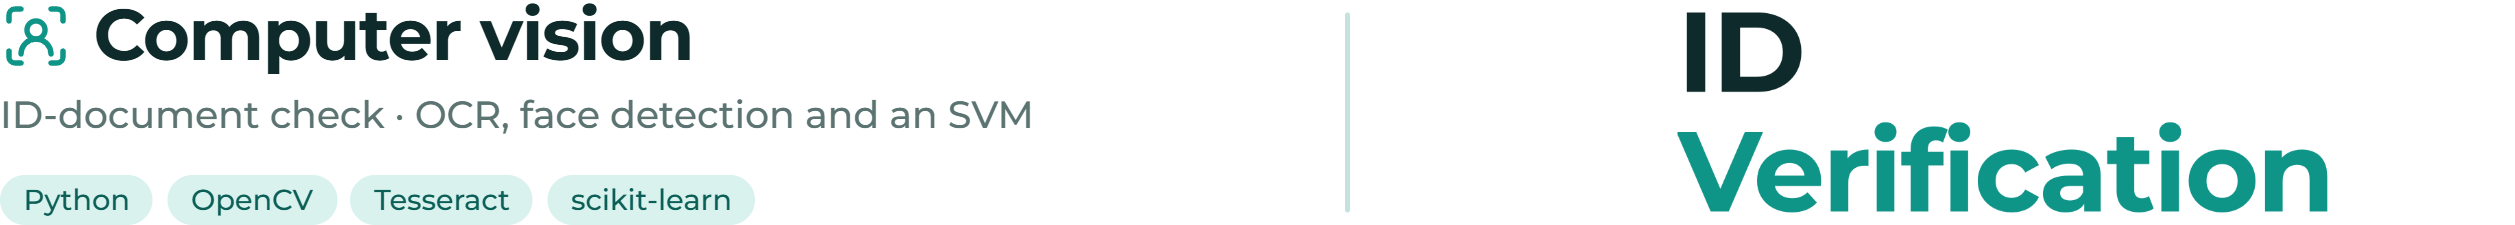
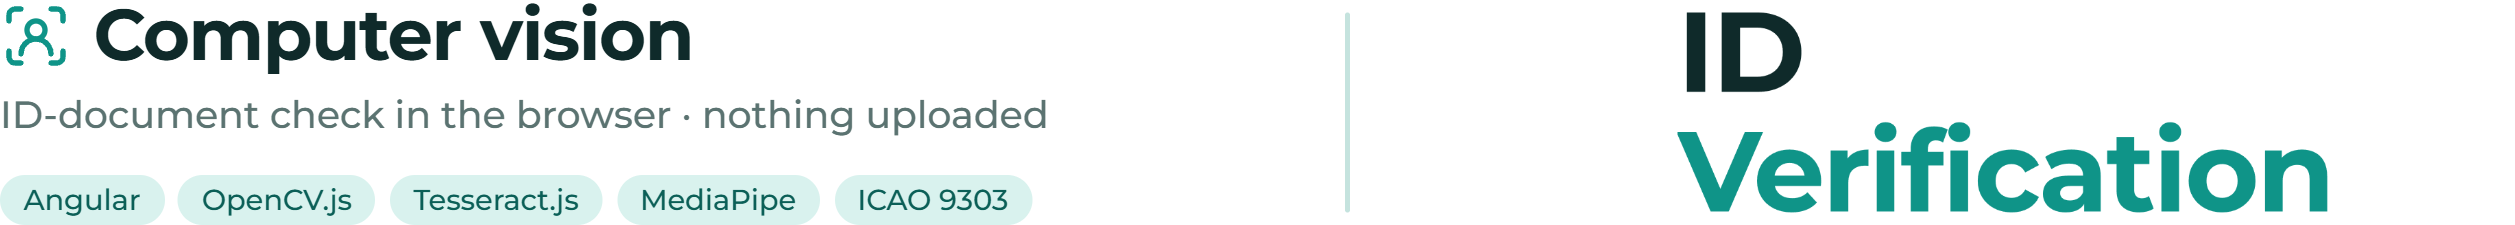
docs: describe the web demo in the README and regenerate its images

Changed region(s): [[0.0, 0.7778, 0.4342, 1.0], [0.1551, 0.4356, 0.4342, 0.5911]]

diff --git a/README.md b/README.md
@@ -1,121 +1,178 @@
 <p align="center">
   <picture>
     <source media="(prefers-color-scheme: dark)" srcset="docs/images/banner-dark.png">
-    <img src="docs/images/banner-light.png" alt="id-verification: ID-document check with OpenCV and OCR" width="100%">
+    <img src="docs/images/banner-light.png" alt="id-verification: an ID-document check that runs in the browser, nothing uploaded" width="100%">
   </picture>
 </p>
 
 <p align="center">
-  <img src="docs/images/showcase.jpg" alt="The idea of the pipeline: a document photo, edge and text detection, OCR, a green verification mark" width="100%">
+  <img src="docs/images/showcase.jpg" alt="The web demo on the angled specimen photo: the eight processing steps, the straightened card and the result card, on a desktop and a phone" width="100%">
 </p>
 
 ## About
 
-**id-verification** is a small set of Python scripts for a basic identity-document check with OpenCV and OCR, plus
-the image-processing exercises that led to it. It was split off from the former `Id-Verification-And-Neural-Network`
-workspace; the PyTorch part lives in `next-word-prediction`.
+<a href="https://damtchorzewski.github.io/id-verification/"><img src="docs/images/open-site.png" alt="Open the live demo" width="130"></a>
 
-- **ID check (`verifyID.py`).** Pre-processes a photo of a document (grayscale, binary threshold, morphological
-  opening), reads the text with Tesseract OCR and checks that the declared country of origin appears in it. It
-  prints `ID OK` or `Invalid ID`. The sample is the official specimen of a Polish identity card (it says
-  *WZORZEC*), not a real person's document.
-- **Image operations (`imageTransform.py`).** Load, grayscale, crop, rotate and save an image, Canny edge detection
-  and Haar-cascade face detection; the faces are cut out to `face_<n>.jpg`.
-- **SVM classifier (`svmModel.py`).** Trains an `SVC` on the GTSRB traffic-sign data set (43 classes, 32 × 32
-  histogram-equalised crops) and plots precision, recall and F1 per class. It is a separate experiment: it has nothing
-  to do with documents.
+**id-verification** shows what a computer can read from a photo of an identity document, step by step, **without
+sending the photo anywhere**. The web demo (Angular) runs OpenCV, Tesseract OCR and MediaPipe face detection as
+WebAssembly in the browser; there is no server, no analytics and no cookie. Next to it are the original Python scripts
+(OpenCV preprocessing, a Tesseract text match, Haar-cascade face detection and an SVM experiment) that the demo grew
+out of.
 
-> **Status:** a prototype, not a verification system. The ID check is a text match, not a test of
-> authenticity (no security features, no face comparison), and no accuracy figure is claimed. The GTSRB data set is
-> not in the repository.
+- **A pipeline you can inspect.** Drop a photo, take one with the rear camera, or use the specimen. Eight steps, each
+  with its intermediate image and time: the original (scaled to 1600 px), grayscale, a binary threshold (Otsu or a
+  manual value, with the 3 × 3 morphological opening of `verifyID.py`), Canny edges (75 / 200, as in
+  `imageTransform.py`), the document outline (the largest convex quadrilateral over 20% of the frame), the card
+  straightened to the ID-1 shape (85.6 × 54 mm), OCR with word boxes, and faces.
+- **OCR (Tesseract.js 7).** Polish and English LSTM models in sparse-text mode (PSM 11) on the straightened grayscale
+  card: the mode and the source that read the most fields of the specimen. The source image can be switched
+  (grayscale, colour, thresholded).
+- **MRZ and ICAO 9303 check digits.** Finds a TD1 (ID card), TD2 or TD3 (passport) zone in the OCR text, in a second
+  OCR pass over the bottom band with only MRZ characters allowed, or in a zone pasted by hand. Every field is parsed
+  and every check digit (weights 7-3-1, modulo 10) is recomputed and marked in place; the expiry date and the match
+  between the zone and the printed front (number, surname) are checked too. Examples: the two ICAO specimens (Utopia)
+  and a TD1 zone generated for the Polish specimen.
+- **Declared country.** The check of `verifyID.py`, a little less naive: the country's names, the nationality word
+  printed on cards and the ICAO code, in the OCR text and in the MRZ.
+- **Faces (MediaPipe BlazeFace).** Found on the straightened card, with crops and confidence.
+- **An honest result card.** Every check with its status (passed, failed, warning, info) and, always, what is _not_
+  checked: physical security features, the e-ID chip, liveness, matching the face to a person, registers of revoked
+  documents, signs of editing. A JSON report (results and text, no images) can be downloaded.
+- **Private by construction.** Every library, model and language file is served by the site itself (copied from the
+  locked `node_modules` at build time), the Content Security Policy allows no other host, and an end-to-end test
+  records every request of a full analysis: all of them go to the site and none carries a body. The runtimes download
+  only when first needed (before compression: OpenCV.js up to 11 MB, Tesseract with both languages up to 10 MB,
+  MediaPipe up to 14 MB).
+- **The Python scripts (`openCv/`).** `verifyID.py` reads the photo with Tesseract after a threshold and checks that
+  the declared country appears in the text (`ID OK` / `Invalid ID`); `imageTransform.py` does grayscale, crop, rotate,
+  Canny and Haar-cascade face detection; `svmModel.py` trains an `SVC` on the GTSRB traffic signs (a separate
+  experiment, plotted below).
+
+Polish and English, light and dark theme, phone to desktop, keyboard and screen-reader friendly, checked with axe for
+WCAG 2.2 AA in both themes.
+
+> **Status:** a prototype of image processing, not an identity-verification system. It does not prove that a document
+> is genuine or that it belongs to the person showing it: anyone can compute check digits, and none of the checks
+> listed as not checked is done. The samples are the published WZORZEC specimen of the Polish identity card (the front;
+> its MRZ is on the back, so the demo reports the zone as not found) and an angled photo made from it. Use specimens
+> only, never a real person's document, when you show the demo.
 
 ## Tech stack
 
-|        |                                                                                    |
-| ------ | ---------------------------------------------------------------------------------- |
-| Stack  | Python 3 scripts, run one at a time                                                |
-| Vision | OpenCV (`cv2`), Tesseract OCR through `pytesseract`                                |
-| ML     | scikit-learn (`SVC`, metrics), joblib, pandas, NumPy, matplotlib                   |
-| Data   | the sample image in `openCv/path/`; GTSRB downloaded to `data/` (git-ignored)      |
-| Tests  | none                                                                               |
+|         |                                                                                                            |
+| ------- | ---------------------------------------------------------------------------------------------------------- |
+| Stack   | Angular 22 (standalone components, signals, zoneless), TypeScript 6, built with `@angular/build` (esbuild) |
+| UI      | Tailwind CSS 4 (`oklch` and `light-dark()` tokens), Geist and Geist Mono (Fontsource), Lucide icon paths   |
+| Vision  | OpenCV.js 4.12 in a Web Worker; MediaPipe Tasks Vision (BlazeFace short range); WebAssembly                |
+| OCR     | Tesseract.js 7 with `tesseract.js-core` and the `pol` / `eng` best-int models, all self-hosted             |
+| Scripts | Python 3: OpenCV, pytesseract, scikit-learn, pandas, NumPy, matplotlib                                     |
+| Tests   | Vitest (MRZ, country match, report); Playwright with axe (flows, privacy, WCAG 2.2 AA, desktop and phone)  |
+| Hosting | GitHub Pages, deployed by GitHub Actions from `main`                                                       |
 
-Comments are a mix of Polish and English; the README, commits and branches are in English.
+The interface is Polish and English; the code, comments, README, commits and branches are in English (some comments in
+the Python scripts are Polish).
 
 ## Screenshots
 
-The picture at the top is an illustration of the idea (document photo, edge and text detection, OCR, a verification
-mark); it is not output of the scripts. The scripts have no interface of their own: below are the SVM metrics they
-saved in `openCv/path/`, drawn in window frames by `tools/readme-images`.
+On the left the OCR step in the dark theme with its word boxes, on the right the MRZ panel checking the zone generated
+for the specimen; then the demo on phones (home, the edges step, the result card, the TD3 passport specimen).
+
+<p align="center">
+  <img src="docs/images/desktop-themes.jpg" alt="The OCR step with word boxes in the dark theme, and the MRZ panel with every check digit valid" width="100%">
+</p>
+
+<p align="center">
+  <img src="docs/images/mobile.jpg" alt="Four phones: the home screen, the Canny edges step, the result card, the MRZ of the TD3 passport specimen" width="100%">
+</p>
+
+The SVM experiment of `svmModel.py`: class-wise metrics and precision on GTSRB, as saved in `openCv/path/`.
 
 <p align="center">
   <img src="docs/images/metrics.jpg" alt="Class-wise metrics and precision of the traffic-sign SVM" width="100%">
 </p>
-
-Other results in `openCv/path/`: `grayscale_image.jpg`, `cropped_image.jpg`, `rotated_image.jpg`, `face_0.jpg` and
-`face_1.jpg`.
 
 ## Quick start
 
 ```bash
 git clone https://github.com/DamTchorzewski/id-verification.git
 cd id-verification
+# the web demo
+pnpm install
+pnpm dev                            # http://localhost:4200/
+# the Python scripts (from the repository root)
 pip install opencv-python pytesseract numpy pandas scikit-learn joblib matplotlib
-python openCv/imageTransform.py     # windows with each step; press a key to continue
 python openCv/verifyID.py           # needs Tesseract OCR installed
+python openCv/imageTransform.py     # a window per step; press a key to continue
 ```
 
-Run the scripts from the **repository root**: the paths inside (`./openCv/path/`, `./data/`) are relative to it.
+Requirements: Node 22 (`.nvmrc`) and pnpm 11 (`packageManager`) for the demo; Python 3 and Tesseract for the scripts.
 `verifyID.py` expects Tesseract at `C:\Program Files\Tesseract-OCR\tesseract.exe` (set in the script) and checks the
-declared country `Poland` against the text of `openCv/path/image.jpg`. Requirements: Python 3.
+declared country `Poland` against `openCv/path/image.jpg`.
 
 ## Scripts
 
-| Command                       | What it does                                                          |
-| ----------------------------- | --------------------------------------------------------------------- |
-| `python openCv/verifyID.py`        | OCR of the document photo and the country check                       |
-| `python openCv/imageTransform.py`  | grayscale, crop, rotate, edges and face detection on the sample image |
-| `python openCv/svmModel.py`        | train and evaluate the traffic-sign SVM (needs GTSRB in `data/`), writes `traffic_sign_classifier.pkl` |
+| Command                           | What it does                                                                                    |
+| --------------------------------- | ----------------------------------------------------------------------------------------------- |
+| `pnpm dev`                        | the demo with hot reload (`ng serve`)                                                           |
+| `pnpm build` / `pnpm preview`     | build to `dist/` with the CSP and `404.html`; serve it as Pages does, under `/id-verification/` |
+| `pnpm check`                      | format check, lint (with the Angular template accessibility rules), types, unit tests           |
+| `pnpm test` / `pnpm test:e2e`     | Vitest; Playwright against the production build                                                 |
+| `pnpm health`                     | check the live site and every runtime file (`SITE_URL=...`); runs after every deploy            |
+| `python openCv/verifyID.py`       | OCR of the document photo and the country check                                                 |
+| `python openCv/imageTransform.py` | grayscale, crop, rotate, edges and face detection on the sample image                           |
+| `python openCv/svmModel.py`       | train and evaluate the traffic-sign SVM (needs GTSRB in `data/`)                                |
 
 ## Configuration
 
-None: no variables or keys. Settings sit at the top of the scripts: the image path and the declared country in
-`verifyID.py`, the Tesseract path in `verifyID.py`, the dataset path in `svmModel.py`.
+None: no environment variables, keys or `.env` file. The base path (`/id-verification/`) is `baseHref` in
+`angular.json`, the self-hosted runtimes are its `assets` list, and the Content Security Policy is written by
+`scripts/postbuild.mjs`. The Python scripts keep their settings at the top (the image path, the declared country, the
+Tesseract path, the dataset path).
 
 ## Structure
 
 ```
-openCv/verifyID.py        ★ the ID check
-openCv/imageTransform.py  image operations, edges, face detection
-openCv/svmModel.py        the traffic-sign classifier
-openCv/path/              the sample image and the results the scripts saved
-data/                     GTSRB, git-ignored, you download it
-docs/                     documentation; docs/images/ holds the README images (generated)
+web/src/main.ts, web/src/index.html       the demo's entry
+web/src/app/app.ts                        ★ the page: header, hero, workspace, footer
+web/src/app/services/analysis.store.ts    ★ the analysis as signals: steps, results, report, reset
+web/src/app/pipeline.ts                   ★ the step list, the viewer, the threshold and OCR controls
+web/src/app/result-card.ts, mrz-panel.ts  the result card; the MRZ panel
+web/src/app/i18n.ts                       ★ every text, Polish and English
+web/src/app/services/                     the OpenCV worker client, Tesseract, MediaPipe, image helpers
+web/src/workers/vision.worker.ts          ★ the OpenCV steps
+web/src/lib/                              ★ MRZ parser and check digits, country match, report (unit-tested)
+web/public/                               the specimens, the face model, the favicon
+tests/e2e/                                Playwright and axe
+scripts/                                  postbuild (CSP), preview server, health check
+openCv/                                   the Python scripts and the images they saved
+docs/                                     documentation; docs/images/ holds the README images (generated)
 ```
-
-The folder is still called `openCv/` because the scripts use that path; renaming it means changing the paths in
-all three.
 
 ## Branches and workflows
 
-Shared standards from `reops/standards`: `main` ≤ `develop` ≤ a working branch `<type>/<topic>`, fast-forward
-merges, Conventional Commits in English. The repository has no workflows.
+Shared standards from `reops/standards`: `main` ≤ `develop` ≤ a working branch `<type>/<topic>`, work PRs into
+`develop`, release PRs into `main`, Conventional Commits in English (commitlint and lint-staged in husky hooks). Two
+workflows: `ci.yml` (format, lint, types and unit tests, then the e2e tests on a pull request and on `main`) and
+`deploy.yml` (CI, then the build; on `main` it publishes `dist/` to GitHub Pages and runs `pnpm health`). A change to
+the documentation alone starts nothing.
 
 **Departures from the standards (and why):**
 
-- **No "Open site" button, no phone strip:** scripts with no site; the images are the saved results in window frames,
-  and the logo is a wordmark (the project has none).
-- **No dependency file, tests, hooks or CI:** a prototype.
-- **History starts here:** the scripts were copied from `Id-Verification-And-Neural-Network` (now
-  `next-word-prediction`), whose history holds their earlier commits.
+- **No `weekly.yml`:** a static site with no external connection; `pnpm health` runs after every deploy.
+- **No security headers beyond the CSP:** GitHub Pages sends no custom headers, so the policy is a `<meta>` tag (which
+  cannot carry `frame-ancestors`), and the workers that run OpenCV and Tesseract get no policy of their own.
+- **The Python scripts have no tests, hooks or dependency file:** they are kept as they were, a prototype.
+- **The README logo is a wordmark** (the project has none).
 
 ## Documentation
 
-| Document                                   | Covers                          |
-| ------------------------------------------ | ------------------------------- |
-| [docs/repository.md](docs/repository.md)   | GitHub description and topics   |
+| Document                                 | Covers                                                 |
+| ---------------------------------------- | ------------------------------------------------------ |
+| [docs/repository.md](docs/repository.md) | GitHub description, website and topics, Pages settings |
 
-The README images (`docs/images/`) are regenerated with `tools/readme-images` (profile `id-verification`) from the
-images in `openCv/path/`; the working shots go to `.scratch/`.
+The README images (`docs/images/`) are regenerated with `tools/readme-images` (profile `id-verification`): shots of the
+demo (a local `pnpm preview` through `SITE_URL`, or the live site) and the SVM plots in `openCv/path/`; the working
+shots go to `.scratch/`.
 
 ---
 

diff --git a/docs/repository.md b/docs/repository.md
@@ -9,21 +9,21 @@ GitHub: strona repozytorium → ⚙ obok „About” → pola poniżej. Opis ma 
 **Opis (Description):**
 
 ```text
-Python prototype of an automated identity-document check: reads the document photo with OCR, compares the declared country with the text, finds the face with OpenCV and classifies images with an SVM. A base for faster, cheaper customer onboarding (KYC) than manual review.
+ID-document check that runs entirely in the browser (Angular, OpenCV.js, Tesseract.js, MediaPipe): step-by-step preprocessing, OCR, MRZ check digits (ICAO 9303) and face detection, with nothing uploaded. A prototype, not an authenticity check; the original Python scripts are included.
 ```
 
-**Strona (Website):** puste (skrypty, nie ma strony).
+**Strona (Website):** `https://damtchorzewski.github.io/id-verification/`
 
 **Tagi (Topics):**
 
 ```text
-python opencv ocr tesseract kyc id-verification identity-verification computer-vision face-detection image-processing svm scikit-learn
+angular typescript opencv tesseract ocr mrz icao-9303 webassembly mediapipe face-detection computer-vision image-processing id-verification kyc privacy github-pages python
 ```
 
 Z GitHub CLI (`gh`) to samo jedną komendą:
 
 ```bash
-gh repo edit DamTchorzewski/id-verification --description "Python prototype of an automated identity-document check: reads the document photo with OCR, compares the declared country with the text, finds the face with OpenCV and classifies images with an SVM. A base for faster, cheaper customer onboarding (KYC) than manual review." --add-topic python,opencv,ocr,tesseract,kyc,id-verification,identity-verification,computer-vision,face-detection,image-processing,svm,scikit-learn
+gh repo edit DamTchorzewski/id-verification --description "ID-document check that runs entirely in the browser (Angular, OpenCV.js, Tesseract.js, MediaPipe): step-by-step preprocessing, OCR, MRZ check digits (ICAO 9303) and face detection, with nothing uploaded. A prototype, not an authenticity check; the original Python scripts are included." --homepage "https://damtchorzewski.github.io/id-verification/" --add-topic angular,typescript,opencv,tesseract,ocr,mrz,icao-9303,webassembly,mediapipe,face-detection,computer-vision,image-processing,id-verification,kyc,privacy,github-pages,python --remove-topic svm,scikit-learn,identity-verification
 ```
 
 ## Nowe repozytorium
@@ -37,7 +37,10 @@ git push -u origin main develop
 
 ## Ustawienia do włączenia
 
-| Gdzie (GitHub)                                          | Co ustawić                              |
-| ------------------------------------------------------- | --------------------------------------- |
-| Settings → General → Default branch                     | `main`                                  |
-| Settings → Branches (albo Rulesets) → `main`, `develop` | zablokuj force push i usuwanie gałęzi   |
+| Gdzie (GitHub)                                          | Co ustawić                                              |
+| ------------------------------------------------------- | ------------------------------------------------------- |
+| Settings → General → Default branch                     | `main`                                                  |
+| Settings → Branches (albo Rulesets) → `main`, `develop` | zablokuj force push i usuwanie gałęzi                   |
+| Settings → Pages → Build and deployment → Source        | **GitHub Actions** (deploy z `main` przez `deploy.yml`) |
+| Settings → Environments → `github-pages`                | Deployment branches → Selected branches: tylko `main`   |
+| Settings → Code security                                | Dependabot alerts i security updates, secret scanning   |
